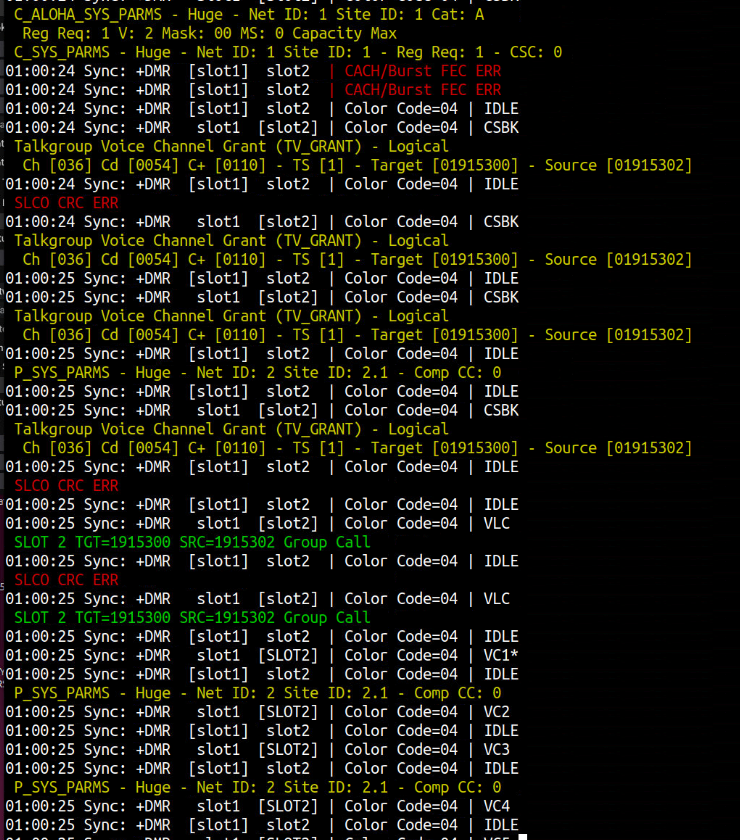
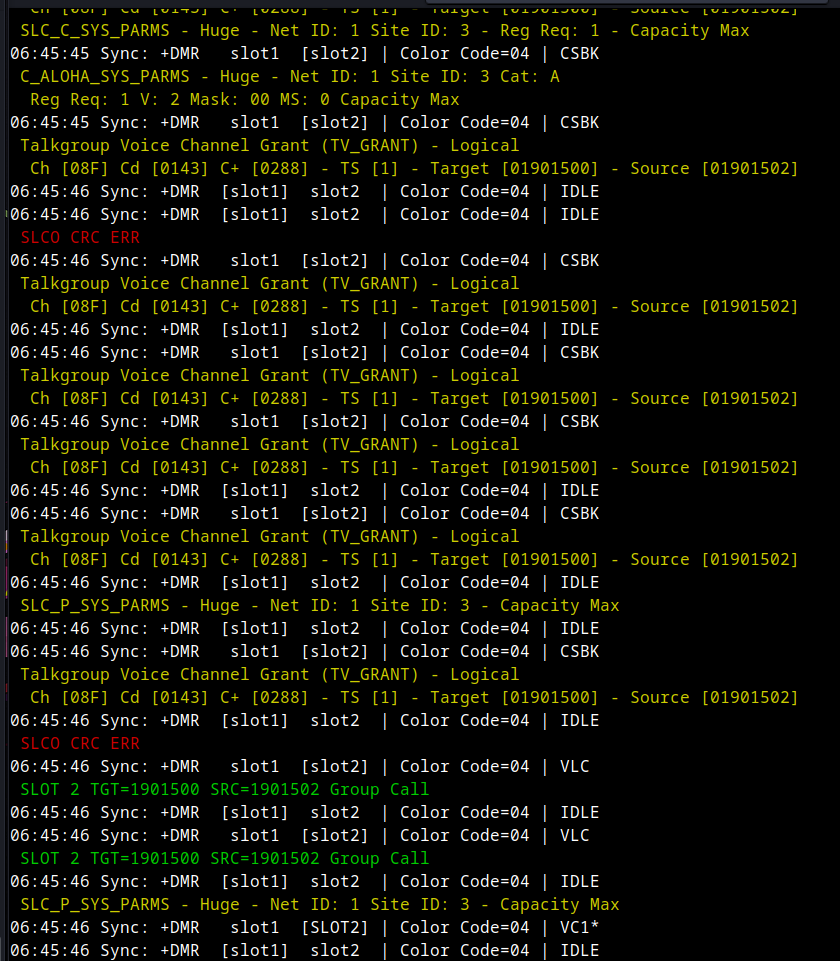
Capacity Plus 'Things'; CSBK PF Check;

diff --git a/src/dmr_flco.c b/src/dmr_flco.c
@@ -71,7 +71,19 @@ void dmr_flco (dsd_opts * opts, dsd_state * state, uint8_t lc_bits[], uint32_t C
     {
       is_gps = 1;
       if (fid == 0) dmr_embedded_gps(opts, state, lc_bits); //issues with fid 0x10 and flco 0x08
+
+      //NOTE: fid 0x10 and flco 0x08 produces a lot of 'zero' lat or lon values, I don't believe this is embedded gps
+      //this has been observed to happen often on CapMax systems, so I believe it could be some CapMax 'thing'
+      //Unknown Link Control - FLCO=0x08 FID=0x10 SVC=0xC1 or FLCO=0x08 FID=0x10 SVC=0xC0 <-- have the enc bit set on svc, but these calls aren't enc?
+      //is this an encrypted embedded link control?
+      else
+      {
+        fprintf (stderr, "%s", KGRN);
+        fprintf (stderr, " Slot %d Unknown EMB LC - FLCO=0x%02X FID=0x%02X SVC=0x%02X ", slot+1, flco, fid, so);
+        fprintf (stderr, "%s", KNRM);
+      } 
     }
+
   }  
 
   //will want to continue to observe for different flco and fid combinations to find out their meaning
@@ -549,23 +561,19 @@ void dmr_slco (dsd_opts * opts, dsd_state * state, uint8_t slco_bits[])
 
   if (slco == 0x2) //C_SYS_Parms
   {
-    if (n != 0) fprintf (stderr, " C_SYS_PARMS - %s - Net ID: %d Site ID: %d.%d - Reg Req: %d - CSC: %d ", model_str, net+1, (site>>n)+1, (site & sub_mask)+1, reg, csc);
-    else fprintf (stderr, " C_SYS_PARMS - %s - Net ID: %d Site ID: %d - Reg Req: %d - CSC: %d ", model_str, net, site, reg, csc);
+    if (n != 0) fprintf (stderr, " SLC_C_SYS_PARMS - %s - Net ID: %d Site ID: %d.%d - Reg Req: %d - CSC: %d ", model_str, net+1, (site>>n)+1, (site & sub_mask)+1, reg, csc);
+    else fprintf (stderr, " SLC_C_SYS_PARMS - %s - Net ID: %d Site ID: %d - Reg Req: %d - Capacity Max ", model_str, net, site, reg);
 
     //add string for ncurses terminal display
     if (n != 0) sprintf (state->dmr_site_parms, "TIII - %s %d-%d.%d ", model_str, net+1, (site>>n)+1, (site & sub_mask)+1 );
     else sprintf (state->dmr_site_parms, "TIII - %s %d-%d ", model_str, net, site);
 
     //if using rigctl we can set an unknown cc frequency by polling rigctl for the current frequency
-
     if (opts->use_rigctl == 1 && state->p25_cc_freq == 0) //if not set from channel map 0
     {
       ccfreq = GetCurrentFreq (opts->rigctl_sockfd);
       if (ccfreq != 0) state->p25_cc_freq = ccfreq;
     }
-
-    //nullify any previous branding sub (bugfix for bad assignments or system type switching)
-    //sprintf(state->dmr_branding_sub, "%s", "");
 
     //debug print
     uint16_t syscode = (uint16_t)ConvertBitIntoBytes(&slco_bits[4], 14);
@@ -575,14 +583,12 @@ void dmr_slco (dsd_opts * opts, dsd_state * state, uint8_t slco_bits[])
   }
   else if (slco == 0x3) //P_SYS_Parms
   {
-    fprintf (stderr, " P_SYS_PARMS - %s - Net ID: %d Site ID: %d.%d - Comp CC: %d ", model_str, net+1, (site>>n)+1, (site & sub_mask)+1, reg); 
+    if (n != 0) fprintf (stderr, " SLC_P_SYS_PARMS - %s - Net ID: %d Site ID: %d.%d - Comp CC: %d ", model_str, net+1, (site>>n)+1, (site & sub_mask)+1, reg); 
+    else fprintf (stderr, " SLC_P_SYS_PARMS - %s - Net ID: %d Site ID: %d - Capacity Max", model_str, net, site);
 
     //add string for ncurses terminal display
     if (n != 0) sprintf (state->dmr_site_parms, "TIII - %s %d-%d.%d ", model_str, net+1, (site>>n)+1, (site & sub_mask)+1 );
     else sprintf (state->dmr_site_parms, "TIII - %s %d-%d ", model_str, net, site);
-
-    //nullify any previous branding sub (bugfix for bad assignments or system type switching)
-    //sprintf(state->dmr_branding_sub, "%s", "");
 
     //debug print
     uint16_t syscode = (uint16_t)ConvertBitIntoBytes(&slco_bits[4], 14);

diff --git a/src/dmr_csbk.c b/src/dmr_csbk.c
@@ -37,14 +37,19 @@ void dmr_cspdu (dsd_opts * opts, dsd_state * state, uint8_t cs_pdu_bits[], uint8
     csbk_pf  = ( (cs_pdu[1] & 0x80) >> 7); 
     csbk     = ((cs_pdu[0] & 0x3F) << 8) | cs_pdu[1]; //opcode and fid combo set
 
-    //set overarching manufacturer in use when non-standard feature id set is up
-    if (csbk_fid != 0) state->dmr_mfid = csbk_fid; 
+    if (csbk_pf == 1) //check the protect flag, don't run if set
+    {
+      fprintf (stderr, "%s", KRED); 
+      fprintf (stderr, "\n Protected Control Signalling Block(s)");
+      fprintf (stderr, "%s", KNRM);
+    }
 
-    //TIII standard with fid of 0 - (opcodes in decimal)
-    if (0 == 0) //some non-standard fid values (0x58 - tait, 0x68 - hytera, 0x10-motcapmax) also use a good chunk of these
+    if (csbk_pf == 0) //okay to run
     {
 
-      
+      //set overarching manufacturer in use when non-standard feature id set is up
+      if (csbk_fid != 0) state->dmr_mfid = csbk_fid; 
+
       fprintf (stderr, "%s", KYEL); 
       
       //7.1.1.1.1 Channel Grant CSBK/MBC PDU
